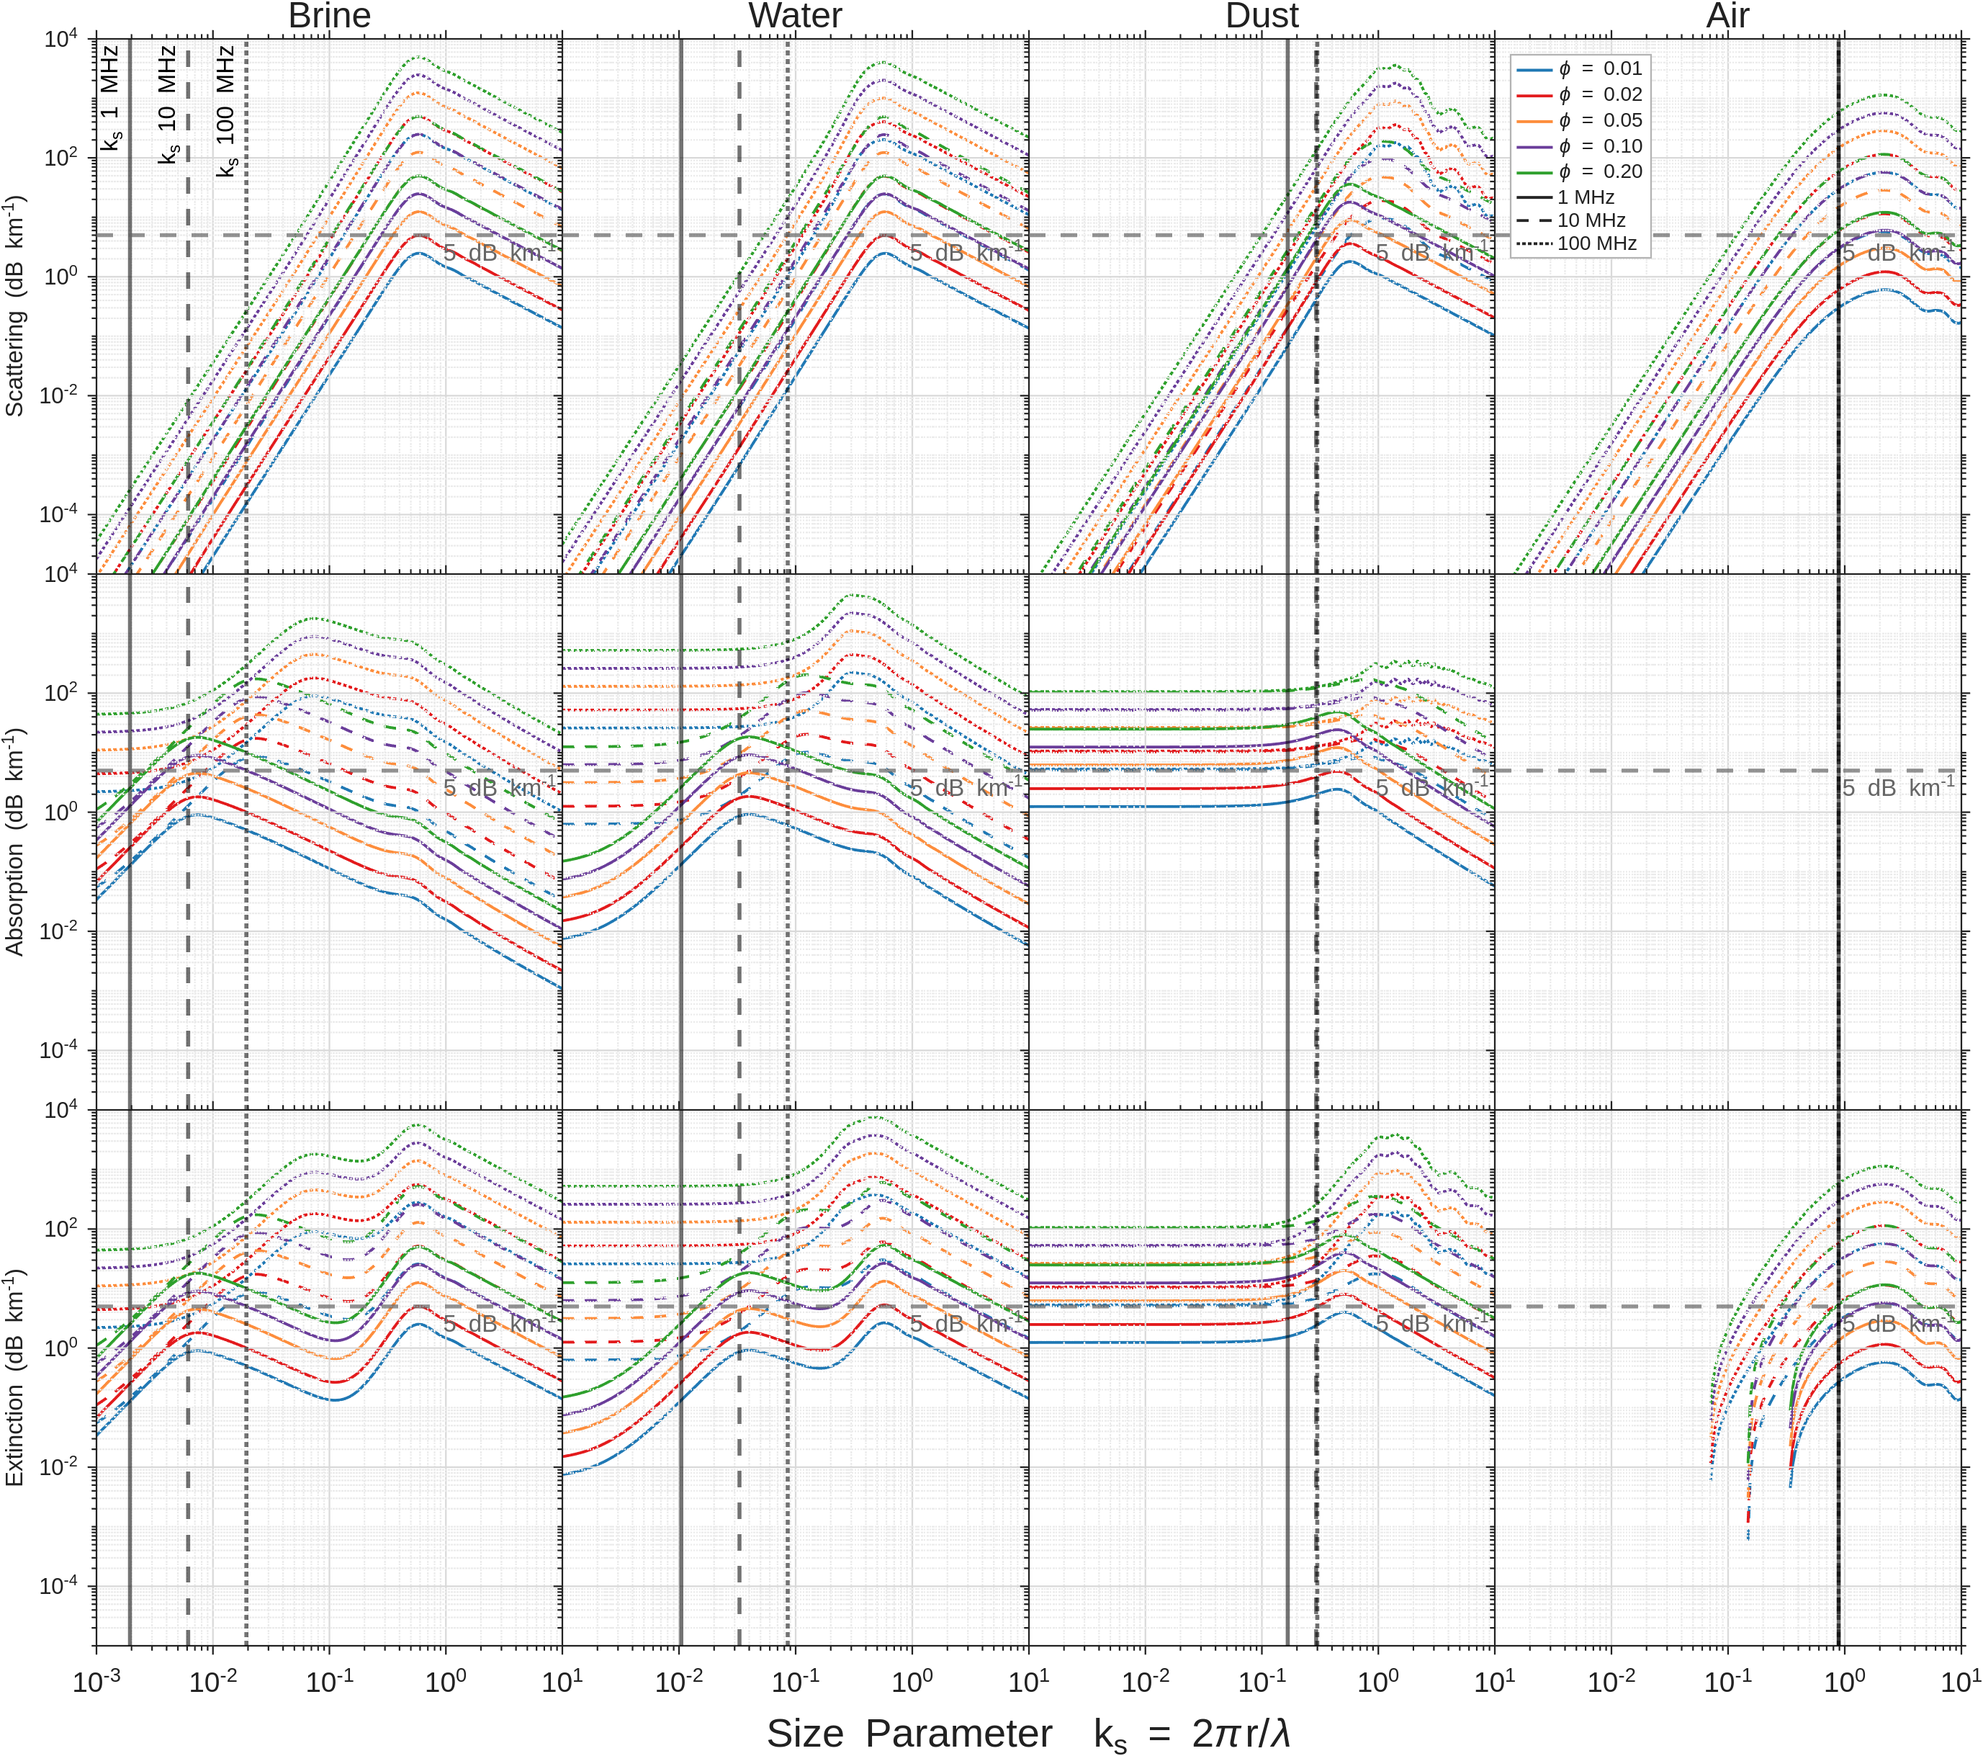
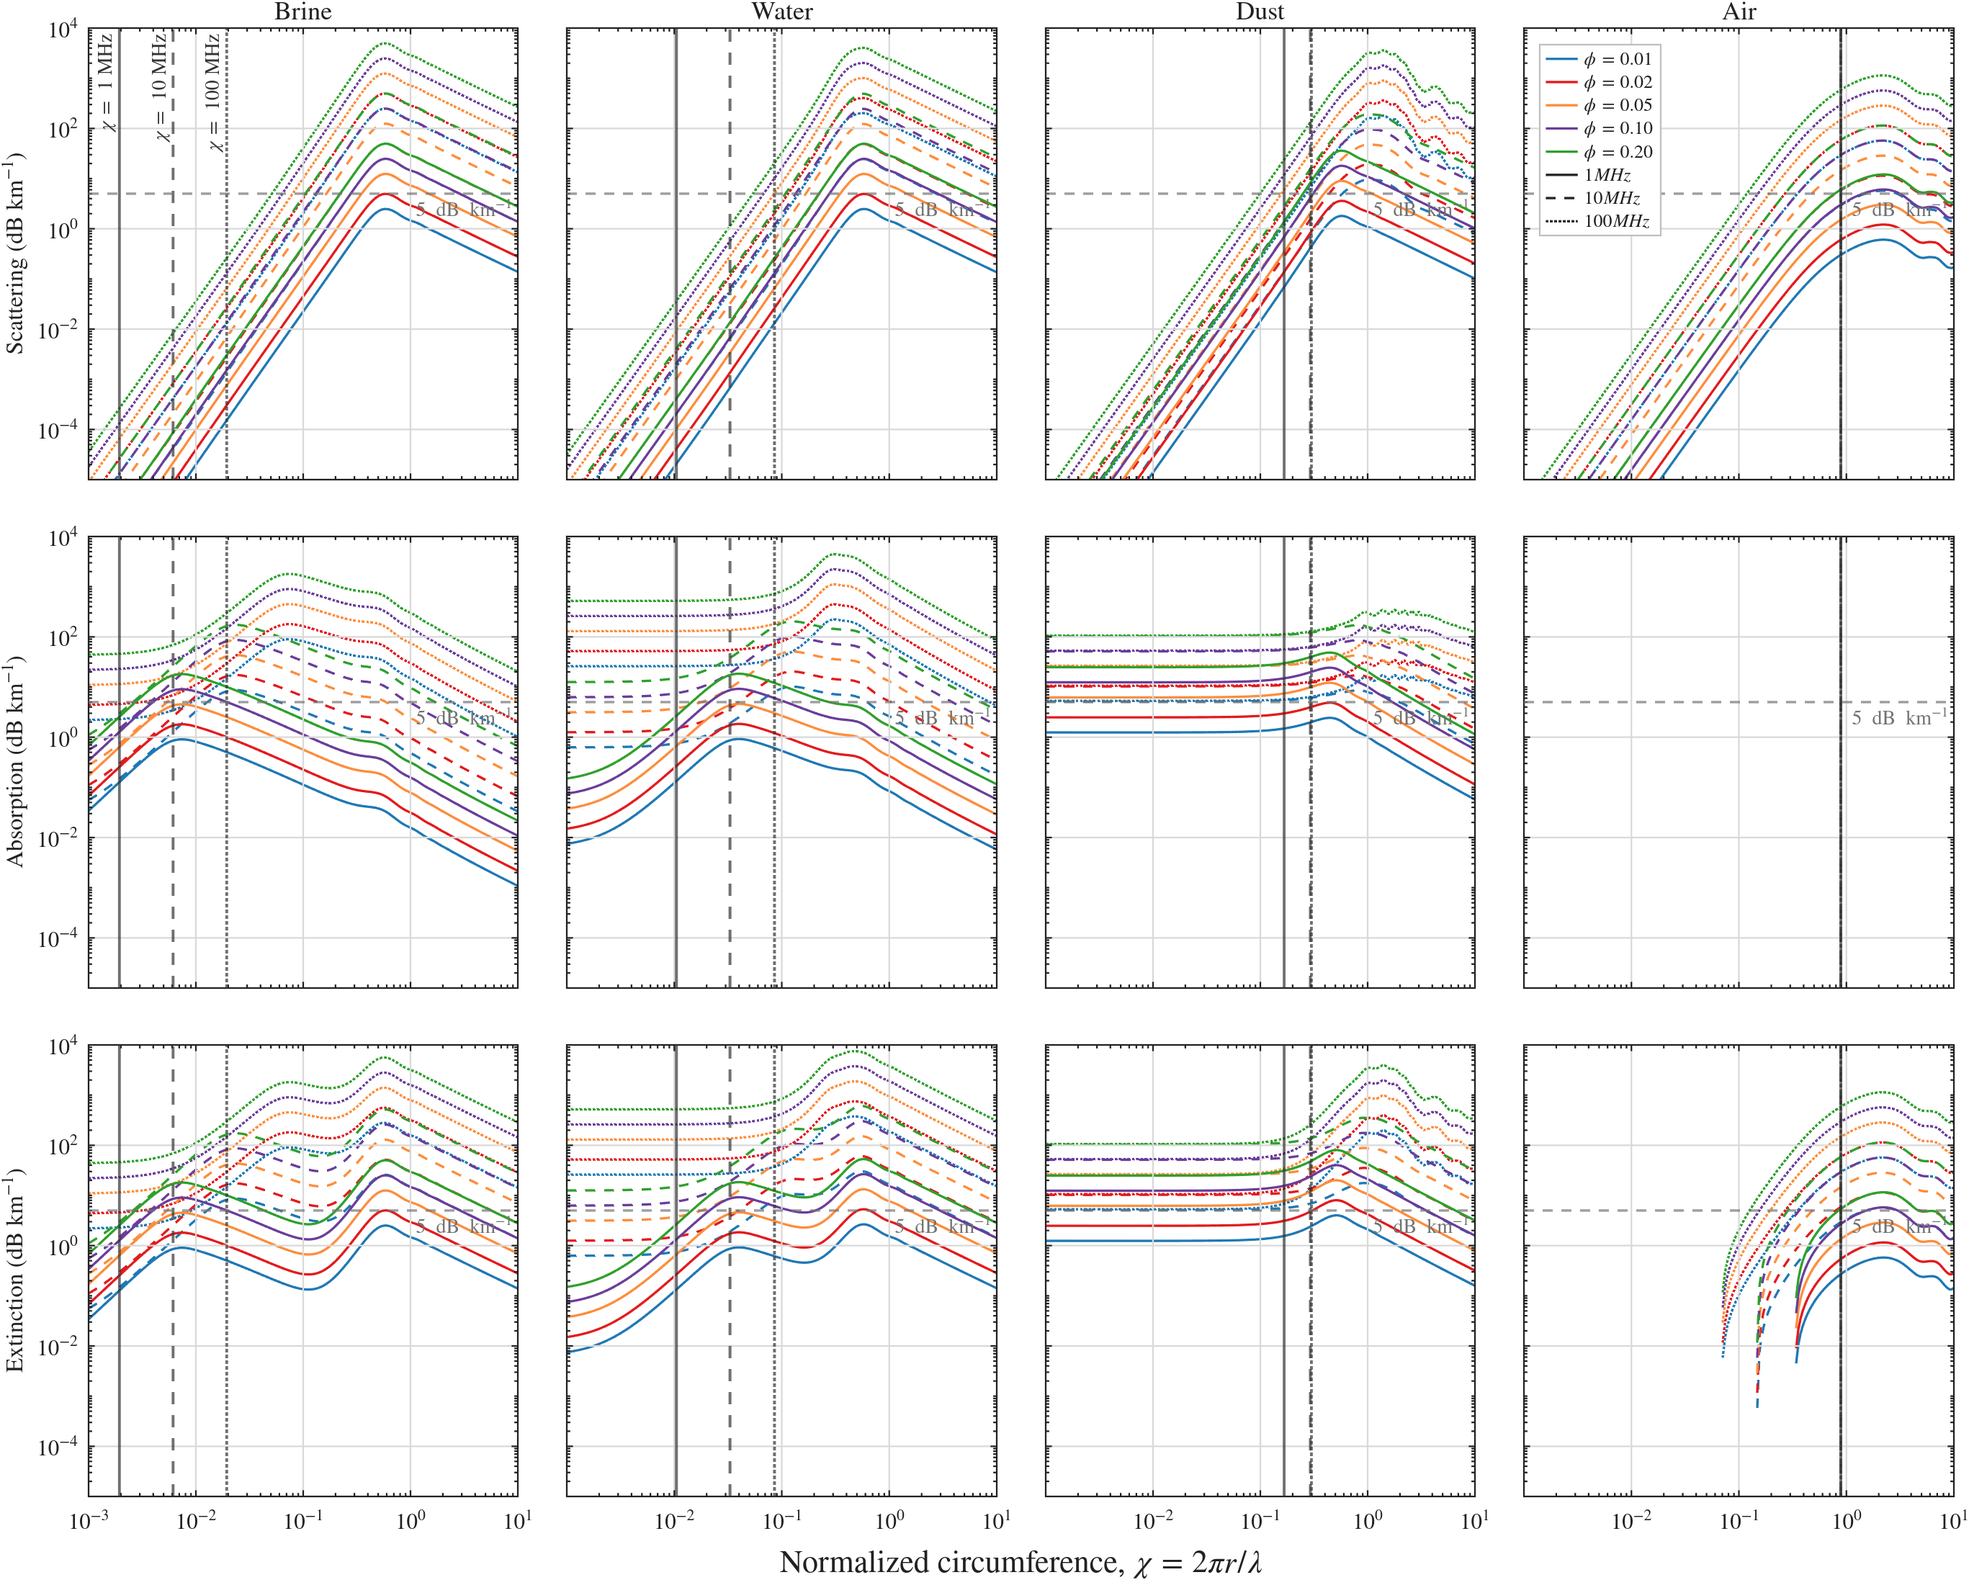
updated plot styles

Changed region(s): [[0.0, 0.0, 1.0, 1.0], [0.8083, 0.7438, 0.8394, 0.7748]]

diff --git a/scatteringMaterials.m b/scatteringMaterials.m
@@ -111,29 +111,37 @@ pub_colors = [
     0.416, 0.239, 0.604;   % purple
     0.180, 0.627, 0.173;   % green
 ];
-pub_linestyles    = {'-', '--', ':'};
-rayleigh_colors   = [
-    0.122, 0.471, 0.706;
-    0.890, 0.102, 0.110;
-    0.180, 0.627, 0.173;
-];
+pub_linestyles  = {'-', '--', ':'};
 
-set(groot, 'DefaultAxesFontName',  'Helvetica');
-set(groot, 'DefaultTextFontName',  'Helvetica');
-set(groot, 'DefaultAxesFontSize',  11);
-set(groot, 'DefaultAxesLineWidth', 0.8);
+% ── Global defaults ────────────────────────────────────────
+set(groot, 'DefaultAxesFontName',        'cmr10');     % <── Computer Modern Roman
+set(groot, 'DefaultTextFontName',        'cmr10');
+set(groot, 'DefaultAxesFontSize',        11);
+set(groot, 'DefaultAxesLineWidth',       0.8);
+set(groot, 'DefaultAxesTickDir',         'in');
+set(groot, 'DefaultAxesBox',             'on');
+set(groot, 'DefaultAxesColor',           'w');
+set(groot, 'DefaultFigureColor',         'w');
+set(groot, 'DefaultAxesGridColor',       [0.85 0.85 0.85]);
+set(groot, 'DefaultAxesGridLineStyle',   '-');
+set(groot, 'DefaultAxesGridAlpha',       1.0);
+set(groot, 'DefaultAxesMinorGridAlpha',  0.0);
+set(groot, 'DefaultAxesTickLabelInterpreter', 'latex');  % <── LaTeX tick labels
+set(groot, 'DefaultTextInterpreter',          'latex');  % <── LaTeX text
+set(groot, 'DefaultLegendInterpreter',        'latex');  % <── LaTeX legend
+set(groot, 'DefaultColorbarTickLabelInterpreter', 'latex');
 
 % =========================================================
 % Figure + tiled layout
 % =========================================================
 n_rows = plot_scattering_flag + plot_absorption_flag + plot_extinction_flag;
 
-figure('Position', [1000, 500, 1400, 400 * n_rows]);
-t = tiledlayout(n_rows, n_materials, ...
-    'TileSpacing', 'none', ...
-    'Padding',     'compact');
+figure('Position', [100, 100, 1400, 360 * n_rows], ...
+       'Color', 'w');
 
-colors_xi = pub_colors;   % reuse pub palette for phi lines
+t = tiledlayout(n_rows, n_materials, ...
+    'TileSpacing', 'compact', ...   % <── small but visible gap between panels
+    'Padding',     'compact');
 
 % =========================================================
 % Main loop
@@ -145,11 +153,9 @@ for mat_idx = 1:n_materials
     Na_Es_xi_list = cell(1, numel(frequencies));
     Na_Ea_xi_list = cell(1, numel(frequencies));
     Na_Ee_xi_list = cell(1, numel(frequencies));
-
-    Es_xi_list = cell(1, numel(frequencies));
-    Ea_xi_list = cell(1, numel(frequencies));
-    Ee_xi_list = cell(1, numel(frequencies));
-
+    Es_xi_list    = cell(1, numel(frequencies));
+    Ea_xi_list    = cell(1, numel(frequencies));
+    Ee_xi_list    = cell(1, numel(frequencies));
     xi_rayleigh   = zeros(1, numel(frequencies));
 
     % --- Compute Mie quantities for every frequency ---
@@ -157,16 +163,10 @@ for mat_idx = 1:n_materials
         lambda = 3e8 / frequencies(freq_idx);
         r_xi   = xi * lambda / (2 * pi);
 
-%         if isnan(materials_epsr{mat_idx, 1})
-%             [eps_p, eps_pp] = brine_parameters(T_brine_K, frequencies(freq_idx));
-%             epsp = eps_p - 1j * eps_pp;
-%         else
         epsp = materials_epsr{mat_idx, 1} + ...
                    compute_imag_permittivity(frequencies(freq_idx), materials_cond{mat_idx, 1});
-%         end
         epsb = eps_r_ice + compute_imag_permittivity(frequencies(freq_idx), sigma_ice);
 
-        % Rayleigh boundary: |n| * xi = 0.5  =>  xi_R = 0.5 / |n|
         n_mag                 = abs(sqrt(epsp / epsb));
         xi_rayleigh(freq_idx) = 0.5 / n_mag;
 
@@ -183,12 +183,10 @@ for mat_idx = 1:n_materials
          Na_Ee_xi_list{freq_idx}] = ...
             compute_atten_rate(phi, r_xi, frequencies(freq_idx), epsb, epsp);
 
-        % FOR DEBUGGING
-        [Es_xi_list{freq_idx},...
-         Ea_xi_list{freq_idx},...
+        [Es_xi_list{freq_idx}, ...
+         Ea_xi_list{freq_idx}, ...
          Ee_xi_list{freq_idx}] = ...
             compute_scat_crossection(r_xi, frequencies(freq_idx), epsb, epsp);
-
     end
 
     % --- Build row list based on active flags ---
@@ -196,15 +194,15 @@ for mat_idx = 1:n_materials
     row_labels = {};
     if plot_scattering_flag
         row_data{end+1}   = Na_Es_xi_list;
-        row_labels{end+1} = 'Scattering (dB km^{-1})';
+        row_labels{end+1} = 'Scattering (dB km$^{-1}$)';   % <── LaTeX superscript
     end
     if plot_absorption_flag
         row_data{end+1}   = Na_Ea_xi_list;
-        row_labels{end+1} = 'Absorption (dB km^{-1})';
+        row_labels{end+1} = 'Absorption (dB km$^{-1}$)';
     end
     if plot_extinction_flag
         row_data{end+1}   = Na_Ee_xi_list;
-        row_labels{end+1} = 'Extinction (dB km^{-1})';
+        row_labels{end+1} = 'Extinction (dB km$^{-1}$)';
     end
 
     % --- Draw each row for this material column ---
@@ -219,128 +217,140 @@ for mat_idx = 1:n_materials
         is_last_col  = (mat_idx == n_materials);
 
         data_list = row_data{row};
-        
-        grid(ax, 'on');
-        ax.GridColor          = [0.85 0.85 0.85];
-        ax.GridLineStyle      = '-';
-        ax.GridAlpha          = 1.0;
-        ax.MinorGridColor     = [0.92 0.92 0.92];
-        ax.MinorGridLineStyle = ':';
-        ax.MinorGridAlpha     = 1.0;
-        set(ax, 'XMinorGrid', 'on', 'YMinorGrid', 'on');
 
-        % --- Data lines (phi x frequency) ---
+        % ── Grid ──────────────────────────────────────────────
+        grid(ax, 'on');
+        ax.GridColor      = [0.85 0.85 0.85];
+        ax.GridLineStyle  = '-';
+        ax.GridAlpha      = 1.0;
+        set(ax, 'XMinorGrid', 'off', 'YMinorGrid', 'off');
+
+        % ── Data lines (phi × frequency) ──────────────────────
         for j = 1:length(phi)
             for k = 1:numel(frequencies)
                 Na = data_list{k};
                 if k == 1
                     plot(ax, xi, Na(:, j), ...
-                         'Color',     pub_colors(j, :), ...
-                         'LineStyle', pub_linestyles{k}, ...
-                         'LineWidth', 1.4, ...
-                         'DisplayName', sprintf('\\phi = %.2f', phi(j)));
+                         'Color',       pub_colors(j, :), ...
+                         'LineStyle',   pub_linestyles{k}, ...
+                         'LineWidth',   1.2, ...
+                         'DisplayName', sprintf('$\\phi = %.2f$', phi(j)));  % <── LaTeX
                 else
                     plot(ax, xi, Na(:, j), ...
-                         'Color',     pub_colors(j, :), ...
-                         'LineStyle', pub_linestyles{k}, ...
-                         'LineWidth', 1.4, ...
-                         'HandleVisibility', 'off');
+                         'Color',             pub_colors(j, :), ...
+                         'LineStyle',         pub_linestyles{k}, ...
+                         'LineWidth',         1.2, ...
+                         'HandleVisibility',  'off');
                 end
             end
         end
 
+        % ── Rayleigh boundary vertical lines ──────────────────
         for k = 1:numel(frequencies)
             if is_first_row && is_first_col
-                label_str = sprintf('k_s %s', freq_labels{k});
+                label_str = sprintf('$\\chi=$ %s', freq_labels{k});  % <── LaTeX k_s
             else
-                label_str = '';   % line still drawn, just no text
+                label_str = '';
             end
-        
+
             xline(ax, xi_rayleigh(k), ...
                   pub_linestyles{k}, ...
-                  'Color',                    'k', ...
-                  'LineWidth',                2.0, ...
-                  'Alpha',                    0.55, ...
+                  'Color',                    [0.2 0.2 0.2], ...
+                  'LineWidth',                1.4, ...
+                  'Alpha',                    0.7, ...
                   'Label',                    label_str, ...
                   'LabelOrientation',         'aligned', ...
                   'LabelVerticalAlignment',   'top', ...
                   'LabelHorizontalAlignment', 'left', ...
-                  'FontSize',                 12, ...
+                  'FontSize',                 10, ...
+                  'Interpreter',              'latex', ...   % <── LaTeX for xline label
                   'HandleVisibility',         'off');
         end
 
+        % ── 5 dB km⁻¹ reference line ──────────────────────────
+        yline(ax, 5, '--', '$5\ \mathrm{dB\ km}^{-1}$', ...  % <── LaTeX
+              'Color',                    [0.45 0.45 0.45], ...
+              'LineWidth',                1.2, ...
+              'LabelVerticalAlignment',   'bottom', ...
+              'LabelHorizontalAlignment', 'right', ...
+              'FontSize',                 10, ...
+              'Interpreter',              'latex', ...         % <── LaTeX for yline label
+              'HandleVisibility',         'off');
 
-        % --- Ice background attenuation reference ---
-        yline(ax, 5, '--', '5 dB km^{-1}', ...
-              'Color',                   [0.4 0.4 0.4], ...
-              'LineWidth',               2.0, ...
-              'LabelVerticalAlignment',  'bottom', ...
-              'LabelHorizontalAlignment','right', ...
-              'FontSize',                12, ...
-              'HandleVisibility',        'off');
+        % ── Axes configuration ─────────────────────────────────
+        set(ax, 'XScale',     'log', ...
+                'YScale',     'log', ...
+                'TickDir',    'in', ...
+                'TickLength', [0.012 0.012], ...
+                'Box',        'on', ...
+                'Layer',      'top', ...
+                'LineWidth',  0.8, ...
+                'TickLabelInterpreter', 'latex');             % <── LaTeX tick labels
 
-        % --- Axes config ---
-        set(ax, 'XScale',      'log', ...
-                'YScale',      'log', ...
-                'TickDir',     'out', ...
-                'TickLength',  [0.015 0.015], ...
-                'Box',         'on', ...
-                'Layer',       'top');
         xlim(ax, [1e-3, 10]);
         ylim(ax, [1e-5, 1e4]);
 
-        % --- X ticks: first col full range, others drop 10^-3 ---
+        % ── X ticks ───────────────────────────────────────────
         if is_first_col
             set(ax, 'XTick', [1e-3, 1e-2, 1e-1, 1e0, 1e1]);
         else
             set(ax, 'XTick', [1e-2, 1e-1, 1e0, 1e1]);
         end
 
-        % --- X label: last row only ---
+        % ── X tick labels: last row only ───────────────────────
         if is_last_row
-            xlabel(ax, '');
-            ax = gca;
-            ax.XAxis.FontSize = 14;
+            ax.XAxis.FontSize = 11;
         else
             set(ax, 'XTickLabel', {});
         end
 
-        % --- Y label: first column only ---
+        % ── Y tick labels: first column only ──────────────────
         if is_first_col
-            ylabel(ax, row_labels{row}, 'FontSize', 12);
+            ylabel(ax, row_labels{row}, ...
+                   'FontSize',   12, ...
+                   'FontWeight', 'normal', ...
+                   'Interpreter', 'latex');                   % <── LaTeX ylabel
         else
             set(ax, 'YTickLabel', {});
         end
 
-        % --- Title: first row only ---
+        % ── Column title: first row only ───────────────────────
         if is_first_row
-            title(ax, title_str, 'FontSize', 18, 'FontWeight','normal');
+            title(ax, title_str, ...
+                  'FontSize',    13, ...
+                  'FontWeight',  'normal', ...
+                  'Interpreter', 'latex');                    % <── LaTeX title
         end
 
-        % --- Legend: first row, last column only ---
+        % ── Legend: first row, last column only ───────────────
         if is_first_row && is_last_col
-            % Frequency linestyle dummy entries
             for k = 1:numel(frequencies)
                 plot(ax, nan, nan, ...
                      'Color',       [0.15 0.15 0.15], ...
                      'LineStyle',   pub_linestyles{k}, ...
-                     'LineWidth',   1.4, ...
-                     'DisplayName', freq_labels{k});
+                     'LineWidth',   1.2, ...
+                     'DisplayName', ['$' freq_labels{k} '$']);  % <── wrap in $ $
             end
+
             lg = legend(ax, ...
-                        'Location',  'northwest', ...
-                        'FontSize',  10, ...
-                        'Box',       'on', ...
-                        'EdgeColor', [0.7 0.7 0.7]);
-            lg.ItemTokenSize = [18, 9];
+                        'Location',    'northwest', ...
+                        'FontSize',    9.5, ...
+                        'Box',         'on', ...
+                        'EdgeColor',   [0.75 0.75 0.75], ...
+                        'Color',       'w', ...
+                        'Interpreter', 'latex');              % <── LaTeX legend
+            lg.ItemTokenSize = [16, 8];
         end
 
         hold(ax, 'off');
     end
 end
 
-% --- Shared x-axis label via tiledlayout ---
-xlabel(t, 'Size Parameter  k_s = 2\pir/\lambda', 'FontSize', 20);
+% ── Shared x-axis label ────────────────────────────────────
+xlabel(t, 'Normalized circumference, $\chi = 2\pi r / \lambda$', ...   % <── full LaTeX math label
+       'FontSize',    16, ...
+       'FontWeight',  'normal', ...
+       'Interpreter', 'latex');
 
 % =========================================================
 % Export
@@ -360,6 +370,7 @@ elseif plot_absorption_flag
 else
     exportgraphics(gcf, 'mie_extinction_xiparam.png', 'Resolution', 300);
 end
+
 
 
 %% --- Difference Plot: Brine minus Water ---
